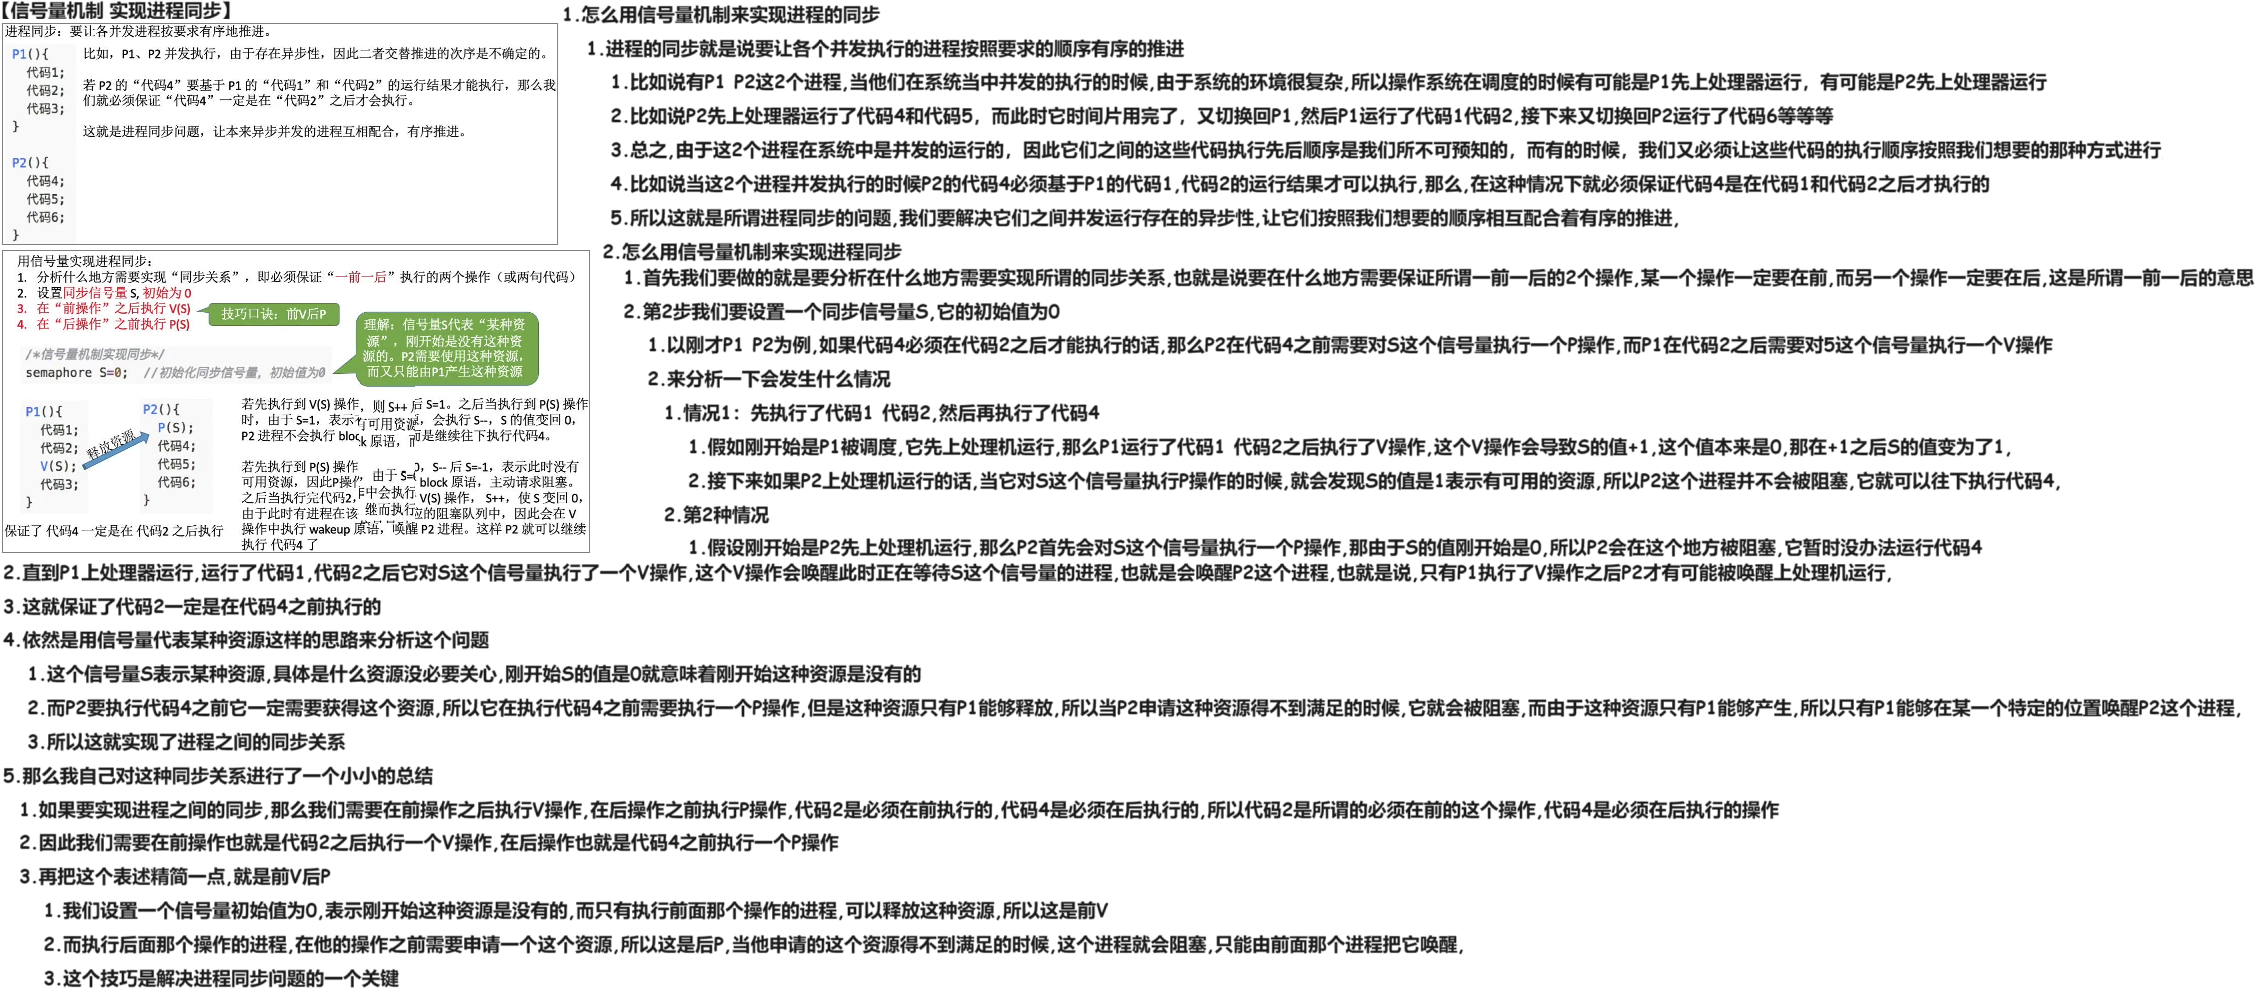
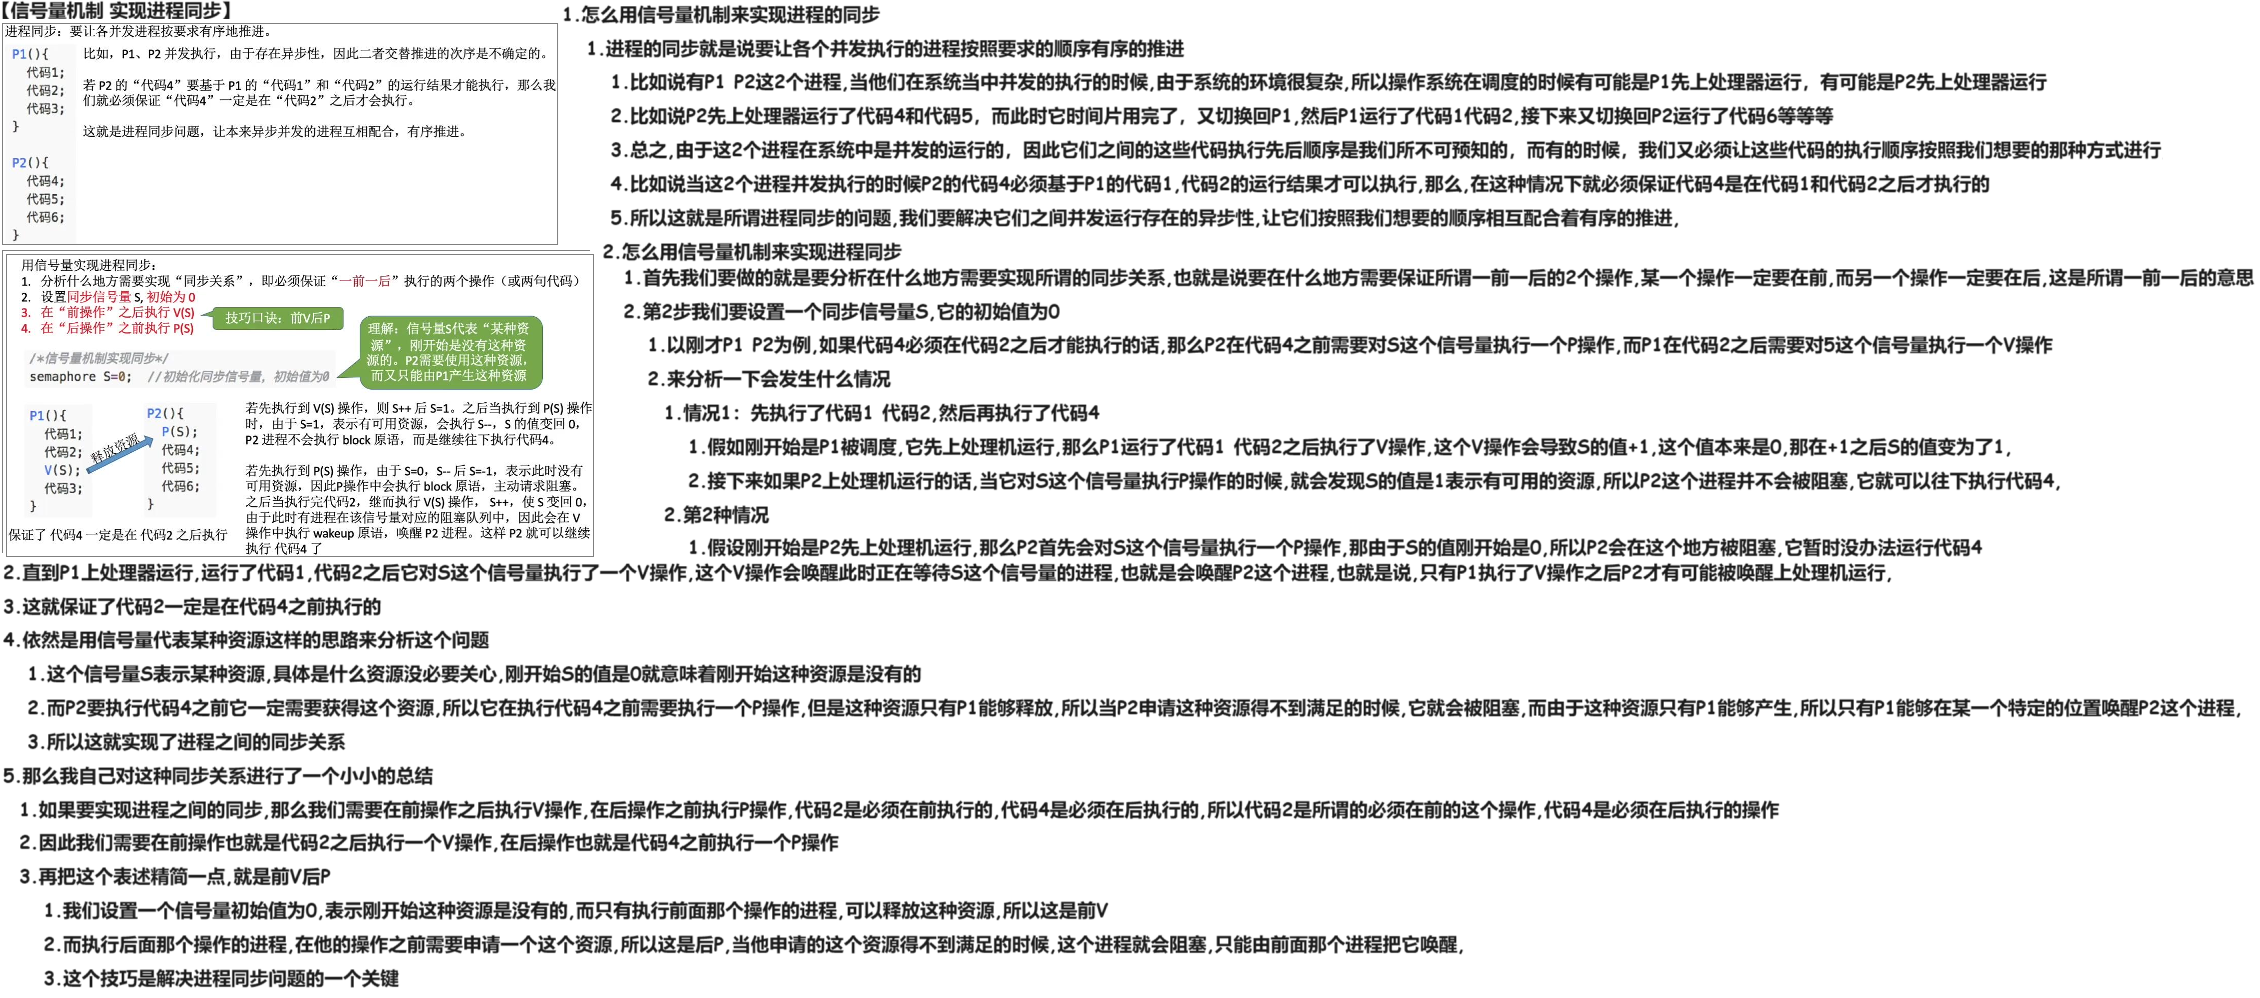
240602

Changed region(s): [[0.0, 0.2485, 0.2788, 0.5591]]

diff --git a/01 初试/01 OS/02 24 25 王道/01 基础/02 进程 线程/03 同步 互斥/06 信号量机制 实现 进程互斥 同步 前驱关系 240601/02 消化/02 Doc.md b/01 初试/01 OS/02 24 25 王道/01 基础/02 进程 线程/03 同步 互斥/06 信号量机制 实现 进程互斥 同步 前驱关系 240601/02 消化/02 Doc.md
@@ -16,13 +16,13 @@
 
 # 03 信号量机制 实现进程同步
 
-<img src="https://cvp.oss-cn-shanghai.aliyuncs.com/picgo/202406021708022.png" alt="image-20240602170850330" style="zoom:50%;" />
+<img src="https://cvp.oss-cn-shanghai.aliyuncs.com/picgo/202406021743801.png" alt="03 信号量机制 实现进程同步" style="zoom:50%;" />
 
 
 
 # 04 信号量机制 实现前驱关系
 
-<img src="https://cvp.oss-cn-shanghai.aliyuncs.com/picgo/202405051639985.png" alt="image-20240505163918779" style="zoom:50%;" />
+
 
 
 
